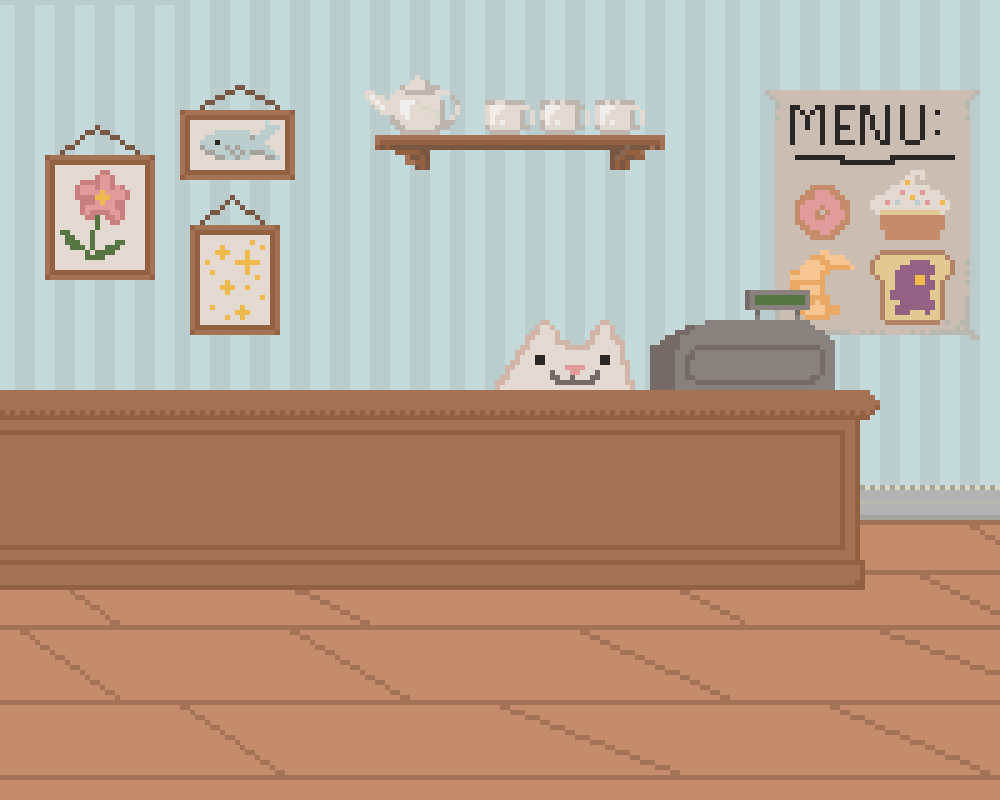
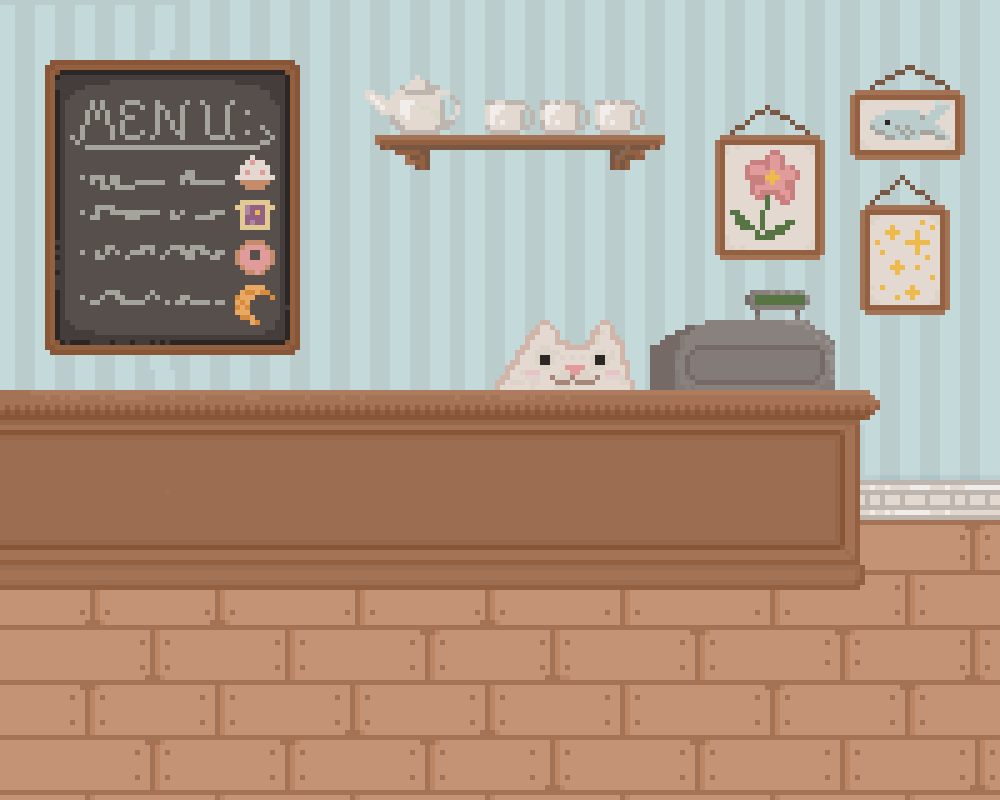
Updated sprites and background.

diff --git a/src/project.py b/src/project.py
@@ -72,7 +72,7 @@ class Player(pygame.sprite.Sprite):
     def draw(self, surface):
         surface.blit(self.image, self.rect)
 
-        stack_y = self.rect.top - 60
+        stack_y = self.rect.top - 90
         for food_img in self.caught_food:
             surface.blit(food_img, (self.rect.centerx - food_img.get_width()//2, stack_y))
             stack_y -= 60

diff --git a/README.md b/README.md
@@ -1,2 +1,12 @@
-# final-project
-Final project for ANGM 2305.
+# final project: Kitty Cafe Food Catcher
+**link to GitHub repository: https://github.com/hxb230033/final-project.git**
+**Link to video:**
+
+## Overview
+For my final project, I created a simple food catching video game. I decided to use a pixelated style to match the simplistic mechanics of the game, which I designed and created on [Piskel](piskelapp.com). 
+
+To play, move across the screen using the arrow keys, catch fresh food, and serve it for points. The player has to catch all the food, and is given three chances if any of the fresh food is not caught. Rotten fish also fall down on occasion, but be careful not to catch the fish! If any fish are caught, the game is over. 
+
+There is a home screen with a play and quit button, as well as instructions for how to play. When the player loses, a game over screen is shown, with options to quit and retry. 
+
+Overall, I believe that my final project was a success. There were a few things (such as the customers) that I did not have enough time to implement, but the gameplay still works without them there. I also wish I had more time to work on the artwork in the game, so in the future I might go back and edit the sprites and backgrounds.
